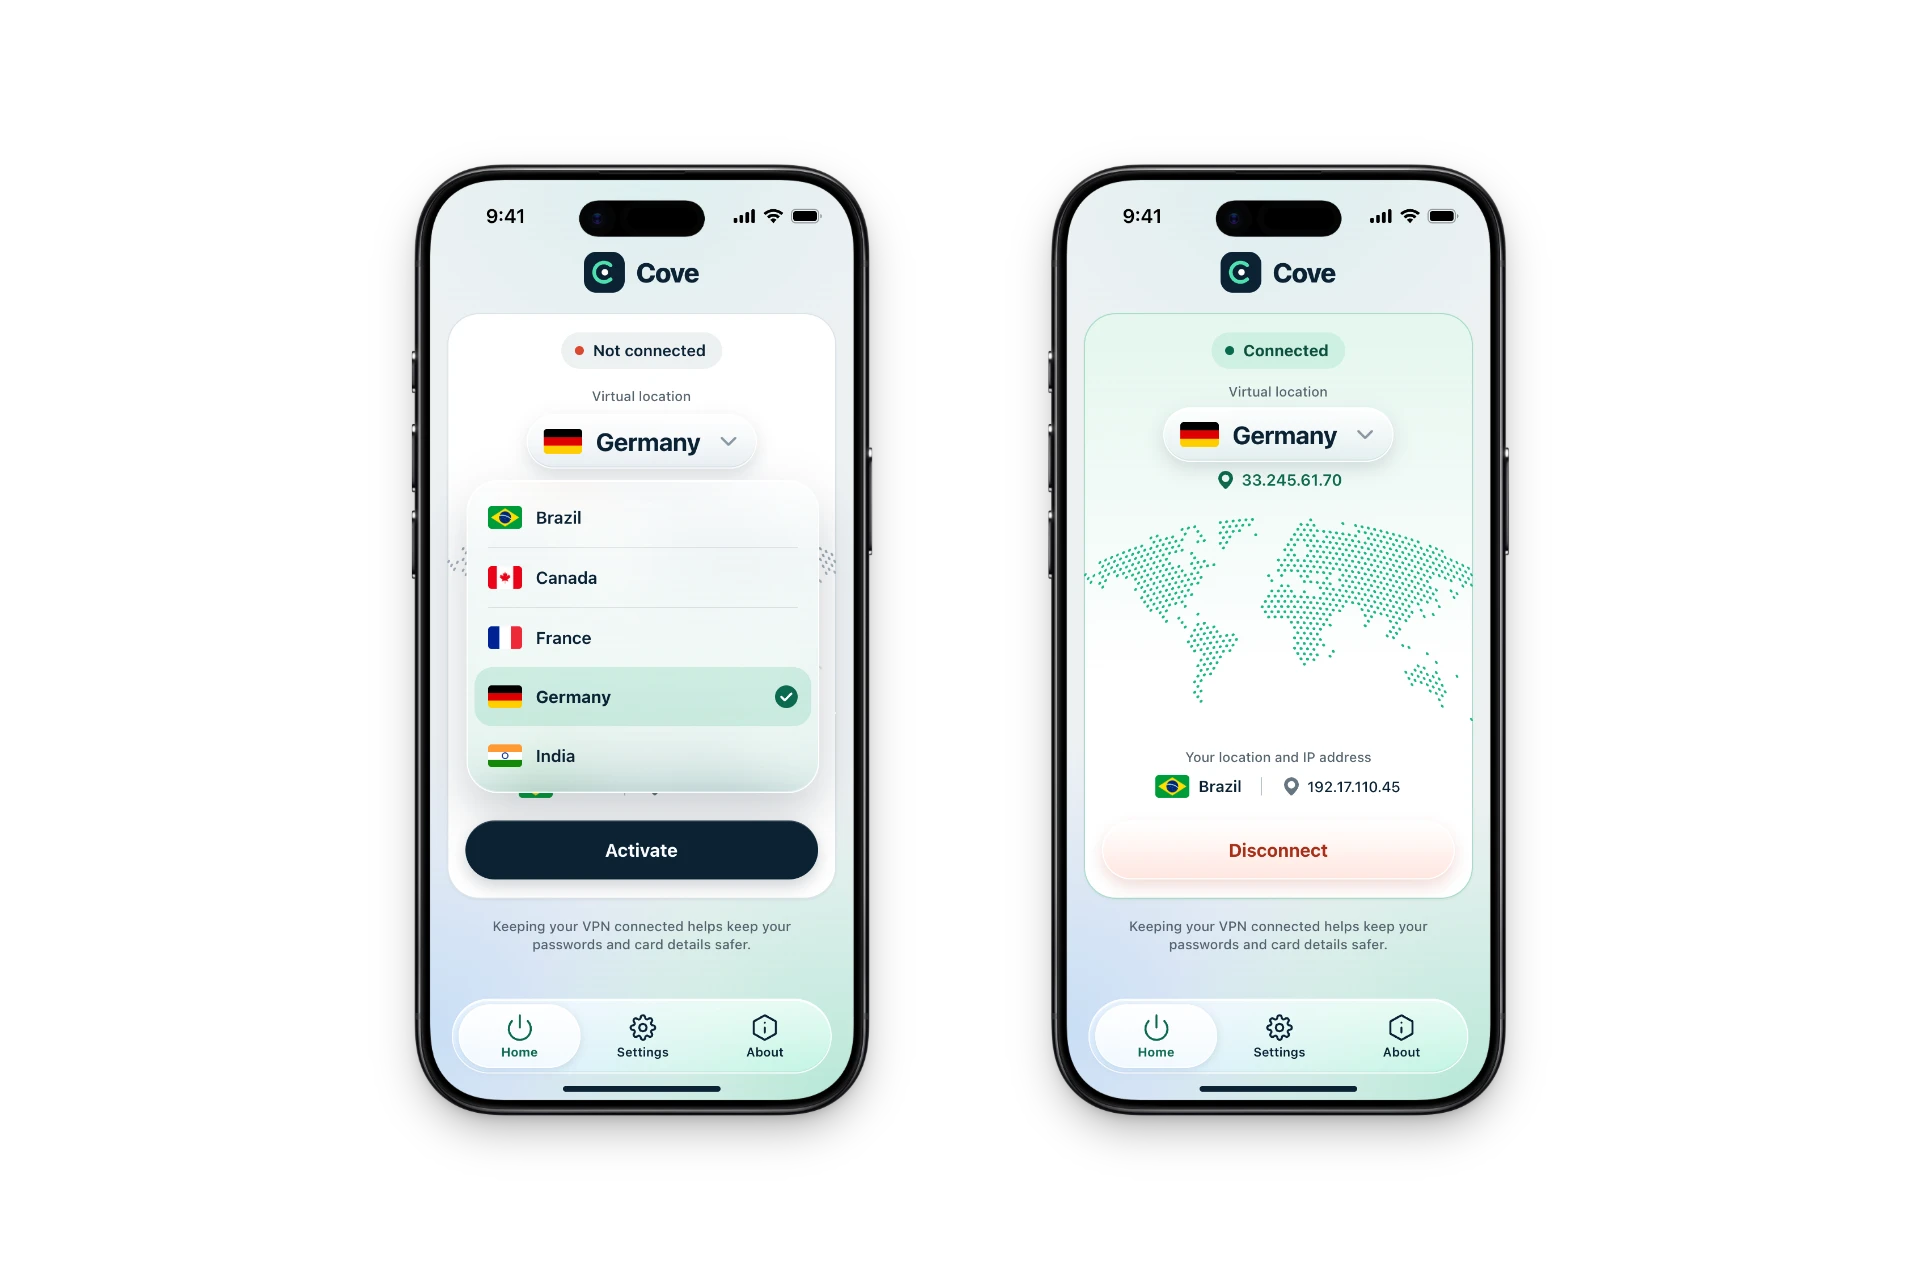
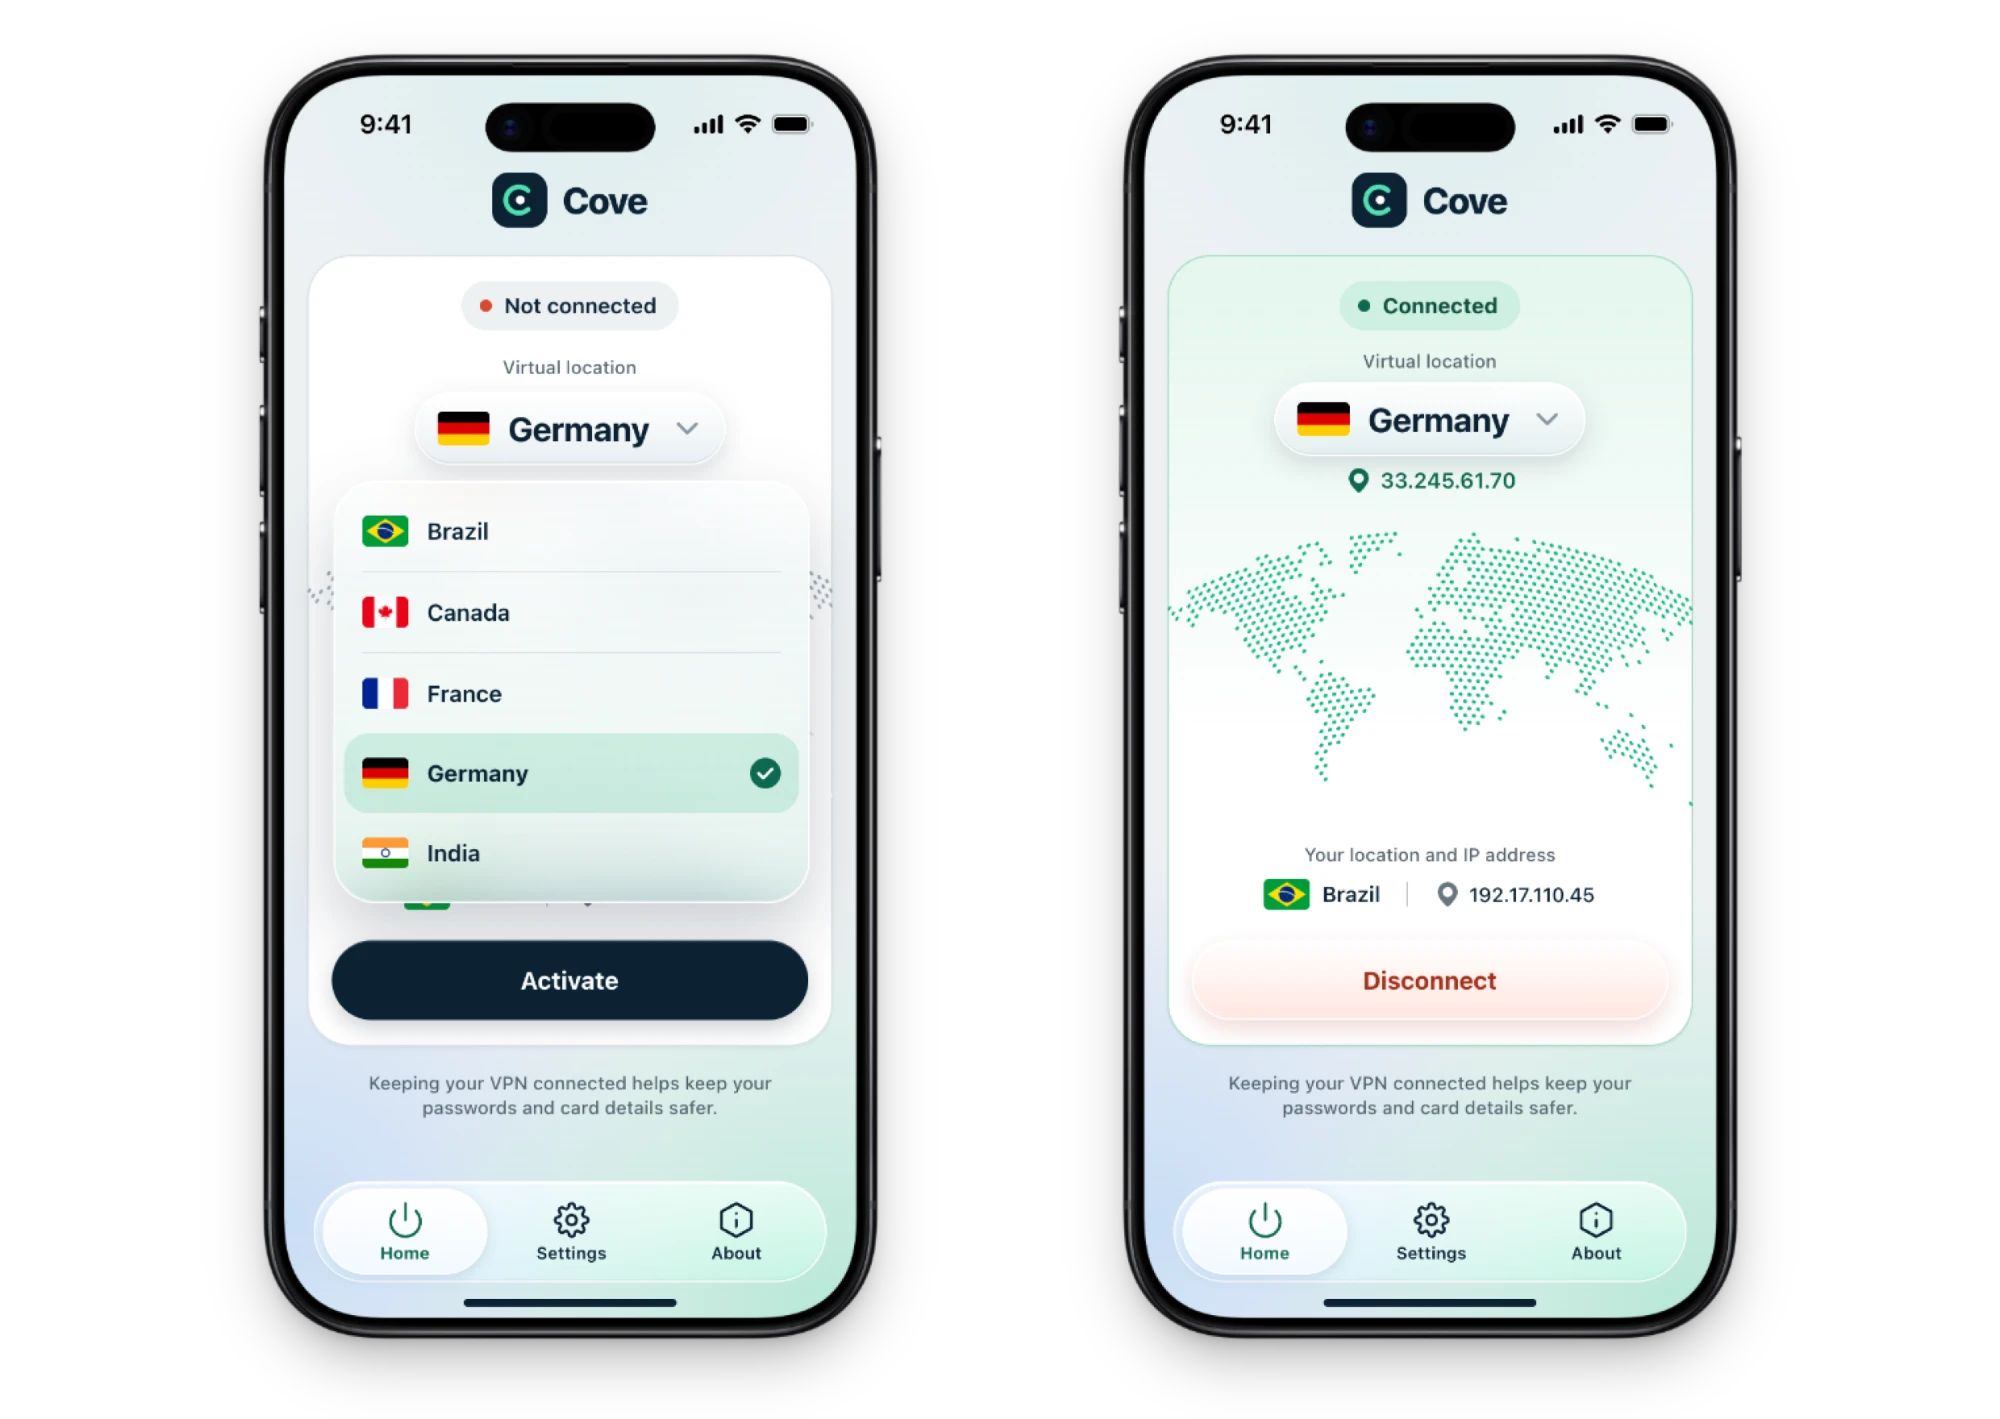
Галерея кейса VPN — готовые кадры 31:22 вместо прежних

Changed region(s): [[0.5312, 0.0312, 0.875, 0.9688], [0.125, 0.0312, 0.4688, 0.9688]]

diff --git a/src/data/cases.ts b/src/data/cases.ts
@@ -16,8 +16,8 @@ import coffee from "../assets/case-coffee-mood.png";
 import nova from "../assets/case-nova-landing.png";
 import coveVideoPoster from "../assets/cases/mobile-app/cover-poster.png";
 import coveOverview from "../assets/cases/mobile-app/gallery-1-overview.webp";
-import coveTabbar from "../assets/cases/mobile-app/gallery-2-tabbar.webp";
-import coveHeader from "../assets/cases/mobile-app/gallery-3-header.webp";
+import coveHeader from "../assets/cases/mobile-app/gallery-2-header.webp";
+import coveTabbar from "../assets/cases/mobile-app/gallery-3-tabbar.webp";
 import ecoCover from "../assets/cases/saas/cover.png";
 import ecoPreview from "../assets/cases/saas/preview.png";
 import ecoGeneral from "../assets/cases/saas/gallery-1-settings-general.png";
@@ -227,29 +227,22 @@ export const caseStudies: CaseStudy[] = [
       alt: "Промо-ролик приложения Cove: выбор страны, подключение, настройки",
       video: "videos/cove-promo.mp4",
     },
-    // Готовые мокапы с прозрачным фоном — как есть, в стеклянных рамках
+    // Готовые мокапы 2000×1419 — пропорция плашки 31:22, прозрачный фон: на всю плашку, как есть
     gallery: [
       {
         src: coveOverview,
         alt: "Два экрана приложения Cove: не подключено с выбором страны и подключено с новым адресом",
-        // Во всю плашку, без полей: крупнее целого кадра, но телефоны не упираются в края
         fit: "bleed",
-        focus: "50% 50%",
-        scale: 1.3,
-      },
-      {
-        src: coveTabbar,
-        alt: "Нижняя часть экрана крупно: текущий и настоящий адрес, кнопка «Activate», стеклянное меню",
-        fit: "bleed",
-        focus: "50% 45%",
-        scale: 1.15,
       },
       {
         src: coveHeader,
         alt: "Верх экрана крупно: статус «Not connected», выбор страны и карта",
         fit: "bleed",
-        focus: "50% 40%",
-        scale: 1.45,
+      },
+      {
+        src: coveTabbar,
+        alt: "Нижняя часть экрана крупно: текущий и настоящий адрес, кнопка «Activate», стеклянное меню",
+        fit: "bleed",
       },
     ],
     preview: {

diff --git a/PLAN.md b/PLAN.md
@@ -1070,9 +1070,8 @@ Figma MCP с масштабом 2 (2880×2048). Обычный скриншот 
 Скрипт сборки лежит в рабочей папке сессии, не в репозитории: для новых экранов или
 подписей его нужно перенести в `scripts/`.
 
-**Галерея кейса VPN** — три мокапа от заказчицы (прозрачный фон), порядок: два экрана
-рядом → низ экрана крупно → верх экрана крупно. Сначала лежали целиком в рамках (`contain`),
-по просьбе «покрупнее, чтобы телефоны упирались в края» переведены на новый режим
-`fit: "bleed"`: картинка во всю плашку без полей 5%, `focus` — точка, на которую смотрит кадр
-и вокруг которой работает `scale` (1.3 / 1.15 / 1.45), лишнее обрезает рамка. Сначала было 1.6 / 1.45 / 1.75 — по просьбе
-«не настолько в край» уменьшено: телефоны крупные, но с воздухом по бокам.
+**Галерея кейса VPN** — три мокапа от заказчицы (2000×1419 = пропорция плашки 31:22, прозрачный
+фон), уже скадрированные под плашку: два экрана рядом → верх экрана крупно → низ экрана крупно.
+Ставятся как есть, `fit: "bleed"` без `scale`/`focus`: картинка ровно во всю плашку, без полей 5%.
+(Раньше были другие три кадра с большими прозрачными полями — их подгоняли `scale` и `focus`;
+после замены на готовые кадры эти поля CaseImage нужны только режиму bleed для ручной подгонки.)
